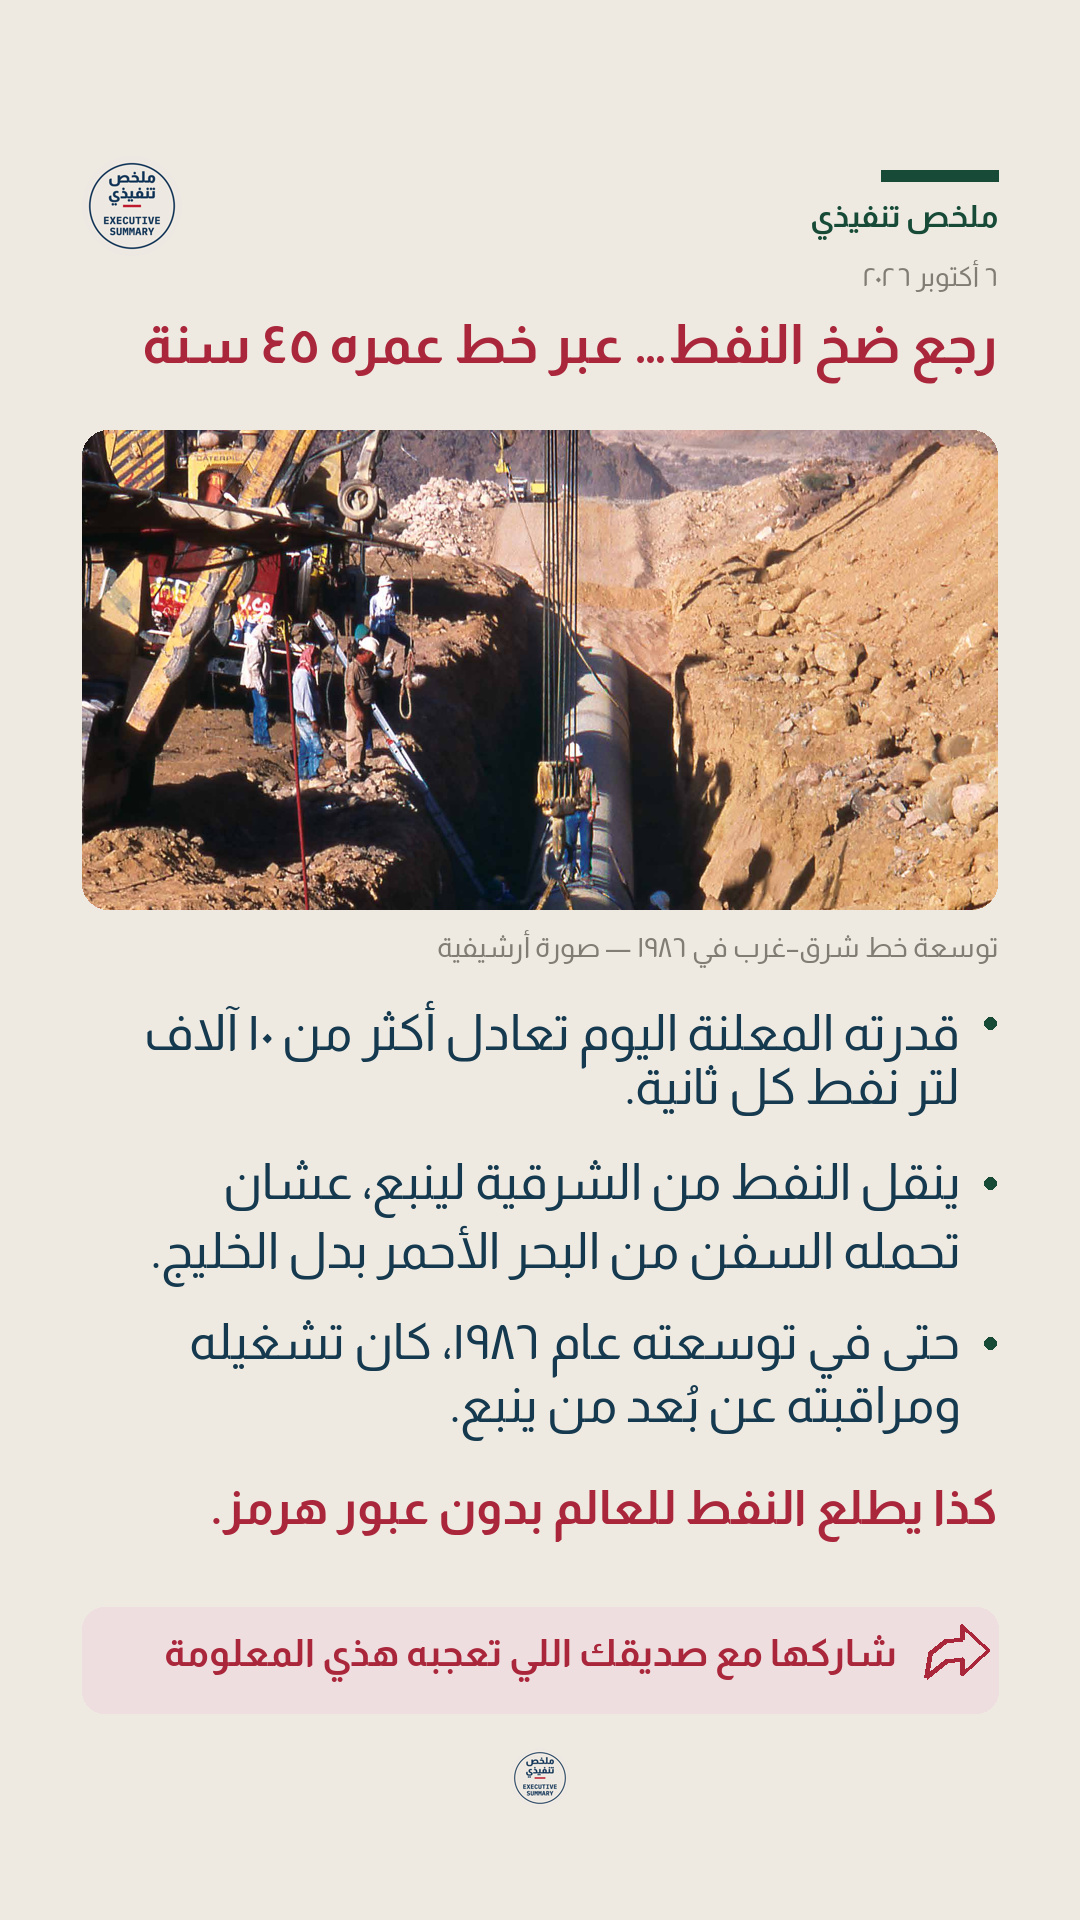
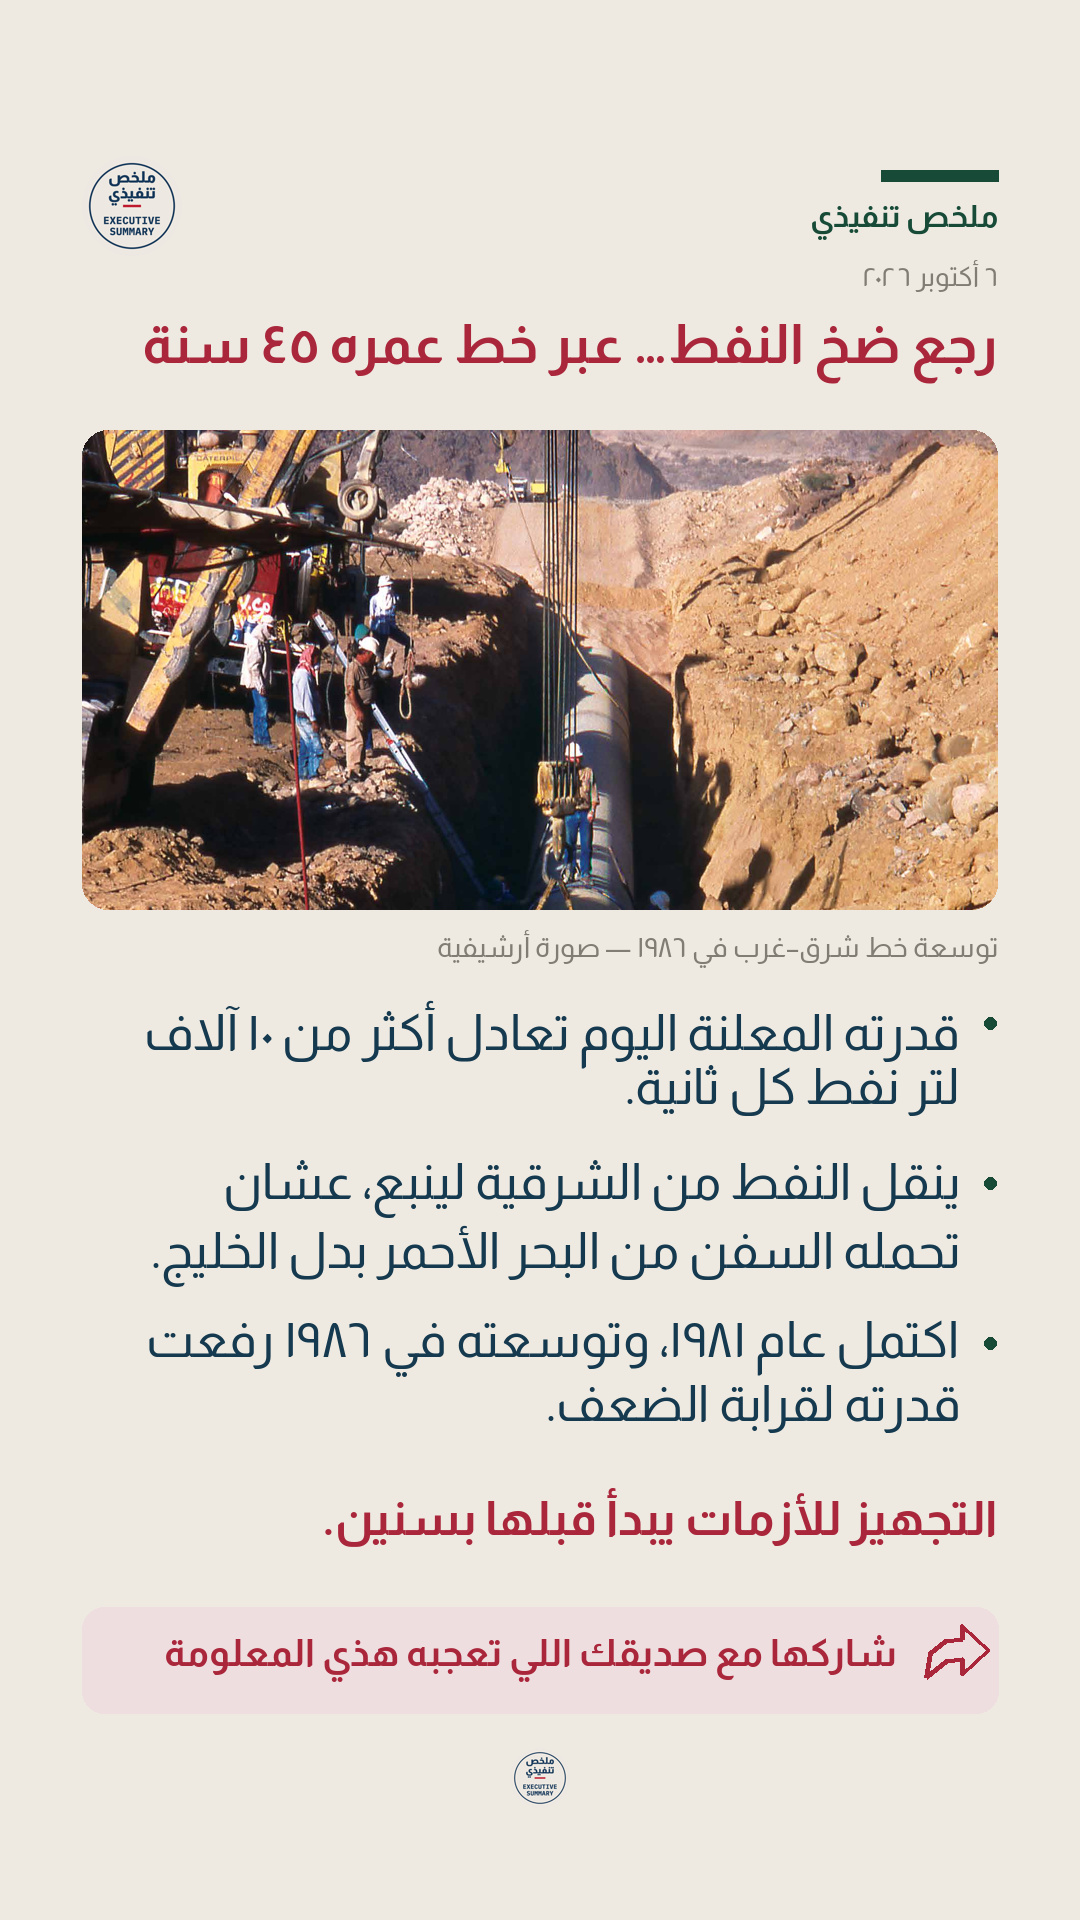
Refine oil milestone and clarify Google nuclear electricity headline

Changed region(s): [[0.1528, 0.6875, 0.8861, 0.75], [0.2139, 0.7812, 0.9167, 0.8125]]

diff --git a/docs/editorial-memory.md b/docs/editorial-memory.md
@@ -88,3 +88,9 @@ Apply to future packages:
   what will a general Saudi viewer discover, understand, and see in five seconds?
   A reviewer must flag a weak hook even when all technical checks pass.
 - Revision 2 of these two cards still requires Khalid's publication approval.
+
+### 2026-10-06 20:17 — oil revision
+Khalid judged remote operation an unimportant detail. Prefer a meaningful
+founding/completion milestone or expansion with a result. Never repeat a bullet
+as the closing: use a distinct supported payoff or a short general takeaway.
+Oil revision 3 replaces its third bullet and closing. Google revision 3 clarifies the headline to name the nuclear-electricity contract and its 20-year duration, as requested by Khalid; the rest of its card is unchanged.
